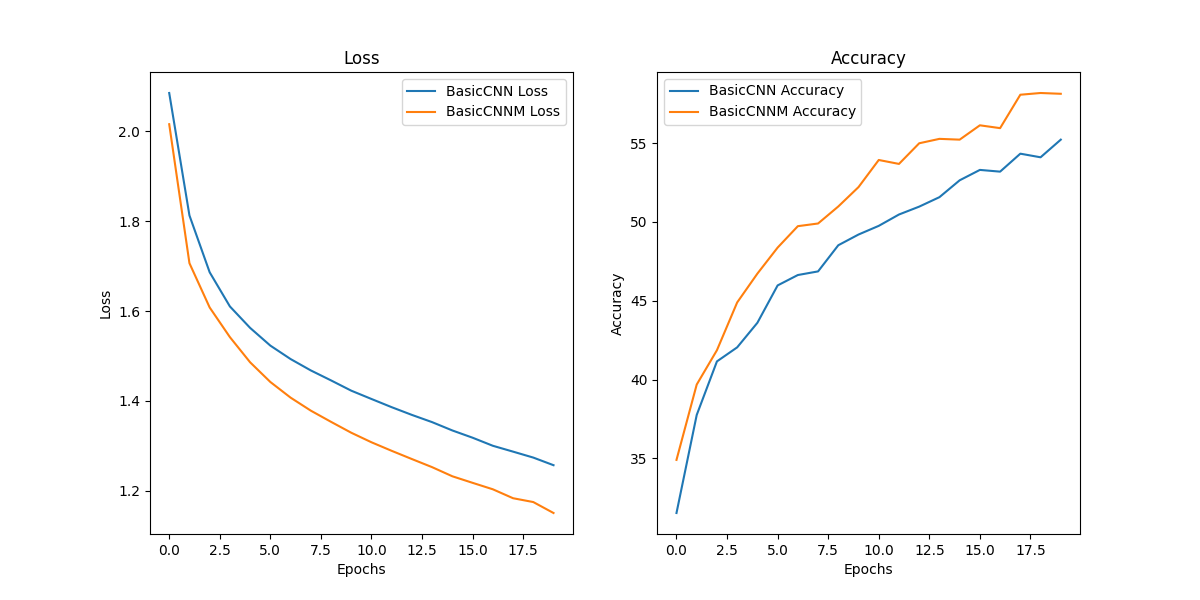
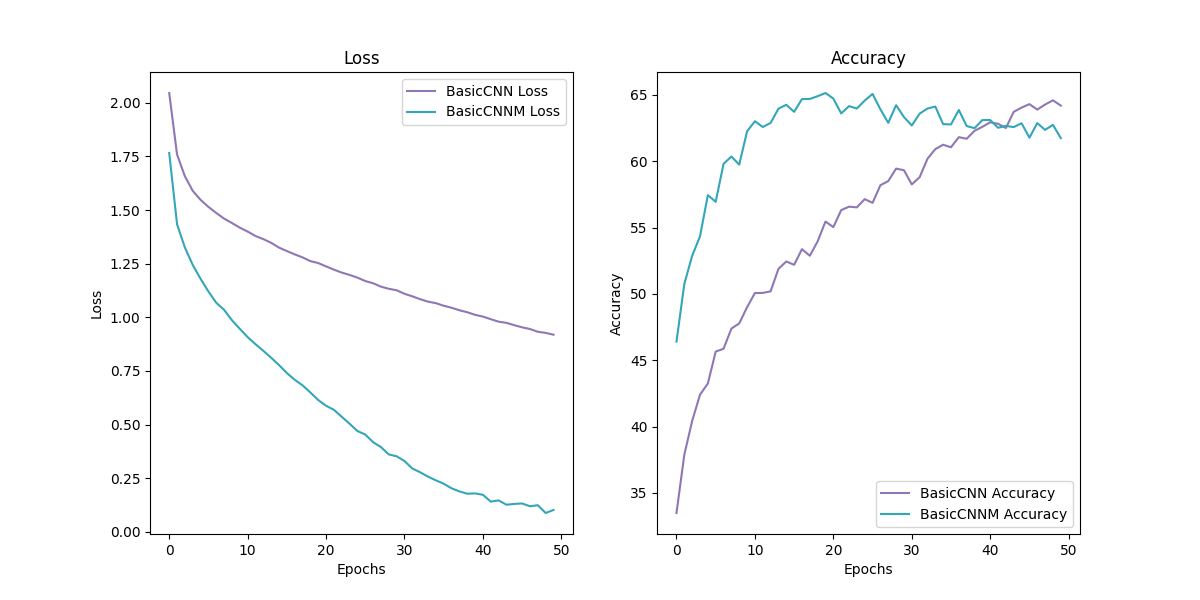
rff

diff --git a/benchmark.py b/benchmark.py
@@ -2,25 +2,44 @@ from matplotlib import pyplot as plt
 import torchvision
 import torch
 import tqdm
+import numpy as np
 
 train_dataset = torchvision.datasets.CIFAR10(root="./data", train=True, download=True, transform=torchvision.transforms.ToTensor())
 test_dataset = torchvision.datasets.CIFAR10(root="./data", train=False, download=True, transform=torchvision.transforms.ToTensor())
+
+
+class RFFLayer(torch.nn.Module):
+    def __init__(self, n_in, n_out, rng=10):
+        super(RFFLayer, self).__init__()
+        self.omega = torch.nn.Parameter(torch.linspace(-rng, rng, n_in * n_out).reshape(n_out, n_in).T)
+        self.rand_omega = torch.nn.Parameter(torch.randn(n_in, n_out) * rng)
+
+        self.bias = torch.nn.Parameter(torch.rand(n_out) * np.pi)
+        self.rand_bias = torch.nn.Parameter(torch.rand(n_out) * np.pi)
+        
+        self.fc = torch.nn.Linear(2 * n_out, n_out)
+    def forward(self, x):
+        x_rp = torch.cos(x @ self.rand_omega + self.rand_bias)
+        x = torch.cos(x @ self.omega + self.bias)
+        return self.fc(torch.cat([x, x_rp], dim=-1))
+
 
 class MagicActivate(torch.nn.Module):
     def __init__(self, n_in):
         super(MagicActivate, self).__init__()
         self.fc = torch.nn.Sequential(
-            torch.nn.Linear(n_in * 6, n_in),
+            torch.nn.Linear(n_in * 5, n_in),
         )
+        self.rff = RFFLayer(n_in, n_in)
     def forward(self, x):
         return self.fc(torch.cat([
-            torch.sin(x),
-            torch.cos(x),
             torch.exp(x),
             -torch.exp(x),
             torch.ceil(x),
             torch.relu(x),
+            self.rff(x),
         ], dim=-1))
+
 
 class BasicCNN(torch.nn.Module):
     def __init__(self):
@@ -43,10 +62,11 @@ class BasicCNN(torch.nn.Module):
             torch.nn.MaxPool2d(2),
 
             torch.nn.Flatten(),
-            torch.nn.Linear(512, 64),
+            torch.nn.Linear(512, 256),
             torch.nn.ReLU(),
-            torch.nn.Linear(64, 10)
+            torch.nn.Linear(256, 10)
         )
+        self.color = "#8F77B5"
     def forward(self, x):
         x = self.cnn(x)
         return x
@@ -72,10 +92,11 @@ class BasicCNNM(torch.nn.Module):
             torch.nn.MaxPool2d(2),
 
             torch.nn.Flatten(),
-            torch.nn.Linear(512, 64),
-            MagicActivate(64),
-            torch.nn.Linear(64, 10)
+            torch.nn.Linear(512, 256),
+            MagicActivate(256),
+            torch.nn.Linear(256, 10)
         )
+        self.color = "#33A6B8"
     def forward(self, x):
         x = self.cnn(x)
         return x
@@ -122,12 +143,12 @@ def train(tr_loader, va_loader , model, epochs, lr, device):
         all_accuracies.append(correct / total * 100)
         print(f"Accuracy: {correct / total * 100:.2f}%")
     
-    axis[0].plot(all_losses, label=f"{model.__class__.__name__} Loss")
-    axis[1].plot(all_accuracies, label=f"{model.__class__.__name__} Accuracy")
+    axis[0].plot(all_losses, label=f"{model.__class__.__name__} Loss", color=model.color)
+    axis[1].plot(all_accuracies, label=f"{model.__class__.__name__} Accuracy", color=model.color)
 
 models = [ BasicCNN(), BasicCNNM() ]
 batch_size = 128
-epochs = 20
+epochs = 50
 lr = 1e-4
 device = torch.device("cuda" if torch.cuda.is_available() else "cpu")
 figure, axis = plt.subplots(1, 2)

diff --git a/main.py b/main.py
@@ -4,20 +4,37 @@ import random
 import tqdm
 import matplotlib.pyplot as plt
 
+
+class RFFLayer(torch.nn.Module):
+    def __init__(self, n_in, n_out, rng=10):
+        super(RFFLayer, self).__init__()
+        self.omega = torch.nn.Parameter(torch.linspace(-rng, rng, n_in * n_out).reshape(n_out, n_in).T)
+        self.rand_omega = torch.nn.Parameter(torch.randn(n_in, n_out) * rng)
+
+        self.bias = torch.nn.Parameter(torch.rand(n_out) * np.pi)
+        self.rand_bias = torch.nn.Parameter(torch.rand(n_out) * np.pi)
+        
+        self.fc = torch.nn.Linear(2 * n_out, n_out)
+    def forward(self, x):
+        x_rp = torch.cos(x @ self.rand_omega + self.rand_bias)
+        x = torch.cos(x @ self.omega + self.bias)
+        return self.fc(torch.cat([x, x_rp], dim=-1))
+
+
 class MagicActivate(torch.nn.Module):
     def __init__(self, n_in):
         super(MagicActivate, self).__init__()
         self.fc = torch.nn.Sequential(
-            torch.nn.Linear(n_in * 6, n_in),
+            torch.nn.Linear(n_in * 4, n_in),
         )
+        self.rff = RFFLayer(n_in, n_in)
     def forward(self, x):
         return self.fc(torch.cat([
-            torch.sin(x),
-            torch.cos(x),
             torch.exp(x),
             -torch.exp(x),
-            torch.ceil(x),
+            # torch.ceil(x),
             torch.relu(x),
+            self.rff(x),
         ], dim=-1))
 
 class ModifiedActivate(torch.nn.Module):
@@ -36,8 +53,9 @@ class MagicActivate2(torch.nn.Module):
     def __init__(self, n_in):
         super(MagicActivate2, self).__init__()
         self.fc = torch.nn.Sequential(
-            torch.nn.Linear(n_in * 6, n_in),
+            torch.nn.Linear(n_in * 7, n_in),
         )
+        self.rff = RFFLayer(n_in, n_in)
     def forward(self, x):
         return self.fc(torch.cat([
             torch.relu(x),
@@ -46,6 +64,7 @@ class MagicActivate2(torch.nn.Module):
             torch.relu(x),
             torch.relu(x),
             torch.relu(x),
+            self.rff(x),
         ], dim=-1))
 
 class PureReLU(torch.nn.Module):
@@ -61,17 +80,14 @@ class PureReLU(torch.nn.Module):
         return self.magic_unit(x)
 
 def tar_function(x):
-    # furrier series with 2pi
-    return np.sin(x * 2 * np.pi) + np.sin(x * 4 * np.pi) + np.sin(x * 6 * np.pi) + np.sin(x * 8 * np.pi) + np.sin(x * 10 * np.pi) + np.sin(x * 12 * np.pi) + np.sin(x * 14 * np.pi) + np.sin(x * 16 * np.pi) + np.sin(x * 18 * np.pi) + np.sin(x * 20 * np.pi)
+    return np.floor(x);
 
 class MyDataset(torch.utils.data.Dataset):
     def __init__(self):
         super(MyDataset, self).__init__()
         self.data = torch.rand(2000, 1) * 6 - 3
 
-        # ==================== #
         self.target = torch.tensor(tar_function(self.data)).float()
-        # ==================== #
 
     def __len__(self):
         return len(self.data)
